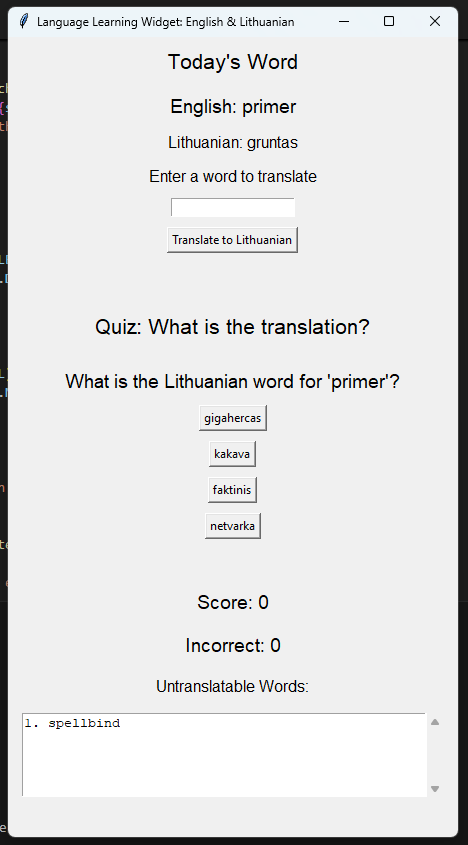
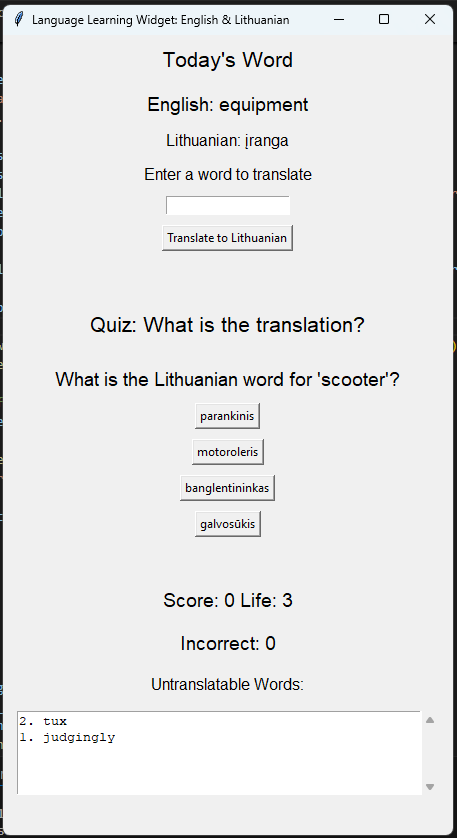
modified readme.txt

diff --git a/README.md b/README.md
@@ -8,6 +8,9 @@ A simple Tkinter-based application designed to help users learn Lithuanian vocab
 - **Translation Tool**: Enter an English word to see its Lithuanian translation.
 - **Quiz Section**: Test your knowledge with multiple-choice questions on Lithuanian translations.
 - **Untranslatable Words Tracker**: Keeps track of words that could not be translated, displayed with a scrollbar.
+- **Score Multiplier**: Increase your score faster by answering more questions correctly.
+- **Life Deduction**: Each incorrect answer deducts a life. Lose all lives, and it's game over!
+- **Game Over Logic**: The game automatically resets when all lives are lost.
 - **Threading for UI Responsiveness**: The app now uses threading to fetch words and translations in the background, preventing UI lag.
 - **Score and Incorrect Guess Tracker**: Displays your current score and tracks incorrect guesses in the quiz.
 
@@ -15,6 +18,8 @@ A simple Tkinter-based application designed to help users learn Lithuanian vocab
 ![](screenshots/1.png)
 ![](screenshots/2.png)
 ![](screenshots/3.png)
+![](screenshots/4.png)
+![](screenshots/5.png)
 
 ## Requirements
 
@@ -54,6 +59,8 @@ pip install requests python-dotenv
 - On startup, the widget will display today's English word and its translation.
 - Enter any English word in the input box and click "Translate to Lithuanian" to see its translation.
 - Participate in the quiz to test your knowledge by selecting the correct Lithuanian translation from the provided options.
+- Each correct answer increases your score, with higher scores boosting the score multiplier.
+- If you select an incorrect answer, a life is deducted. Losing all lives will trigger a game over and reset your progress.
 - If words cannot be translated, they are added to the untranslatable word list.
 
 ## Project Structure
@@ -77,6 +84,7 @@ Renaldas
 This project is licensed under the MIT License - see the [LICENSE](LICENSE) file for details.
 
 ### Changes:
-- Added information about threading for UI responsiveness.
 - Updated the "Features" section to include the new score tracker and threading functionality.
 - Added `python-dotenv` to the requirements.
+- Added: Score Multiplier for additional points on consecutive correct answers.
+- Implemented: Life deduction on incorrect answers, with a game-over reset feature.
